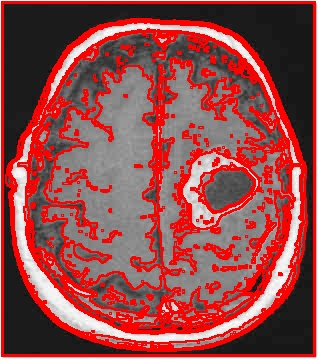
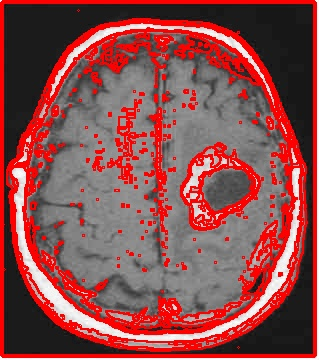
whats going on tuckoo

diff --git a/Code/UPCXX/upcxxkmeans.cpp b/Code/UPCXX/upcxxkmeans.cpp
@@ -55,7 +55,7 @@ int main(int argc, char** argv) {
     for (auto const& imageEntry : fs::directory_iterator{imagesFolder}) {
         fs::path imagePath = imageEntry.path();
         Mat image;
-        const int iterations = 7, clustersCount = 4;
+        const int iterations = 10, clustersCount = 4;
         
         //master checks path for errors
         if(IS_MASTER_PROCESS) {

diff --git a/Code/MPI/mpikmeans.cpp b/Code/MPI/mpikmeans.cpp
@@ -47,7 +47,7 @@ int main(int argc, char **argv)
     {
         unsigned char * recvBuffer;
         unsigned char * sendBuffer;
-        int centroidCount = 3, iterations = 7;
+        int centroidCount = 4, iterations = 10;
         int *centroids;
         int imageCount;
         int * displs = (int*)malloc(comm_sz * sizeof(int));

diff --git a/Code/Serial/imageSegmentation.cpp b/Code/Serial/imageSegmentation.cpp
@@ -43,7 +43,7 @@ int main(int argc, char** argv){
             continue;
         }
 
-        Mat kimage = kMeans(image, 3,5, 2);
+        Mat kimage = kMeans(image, 4,10, 2);
         
         getrusage(RUSAGE_SELF, &resource_usage);
         int reservedMemory = resource_usage.ru_maxrss;
